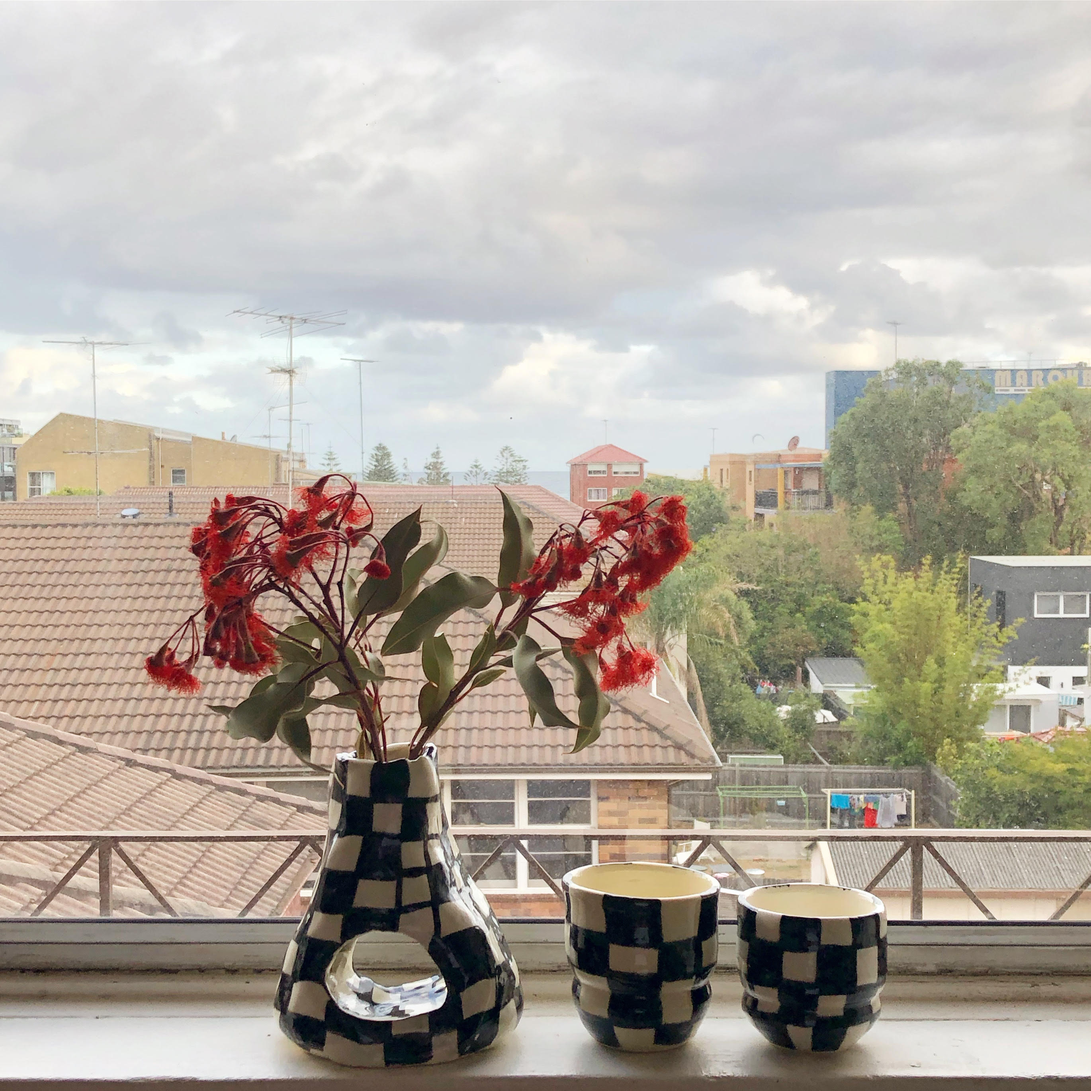
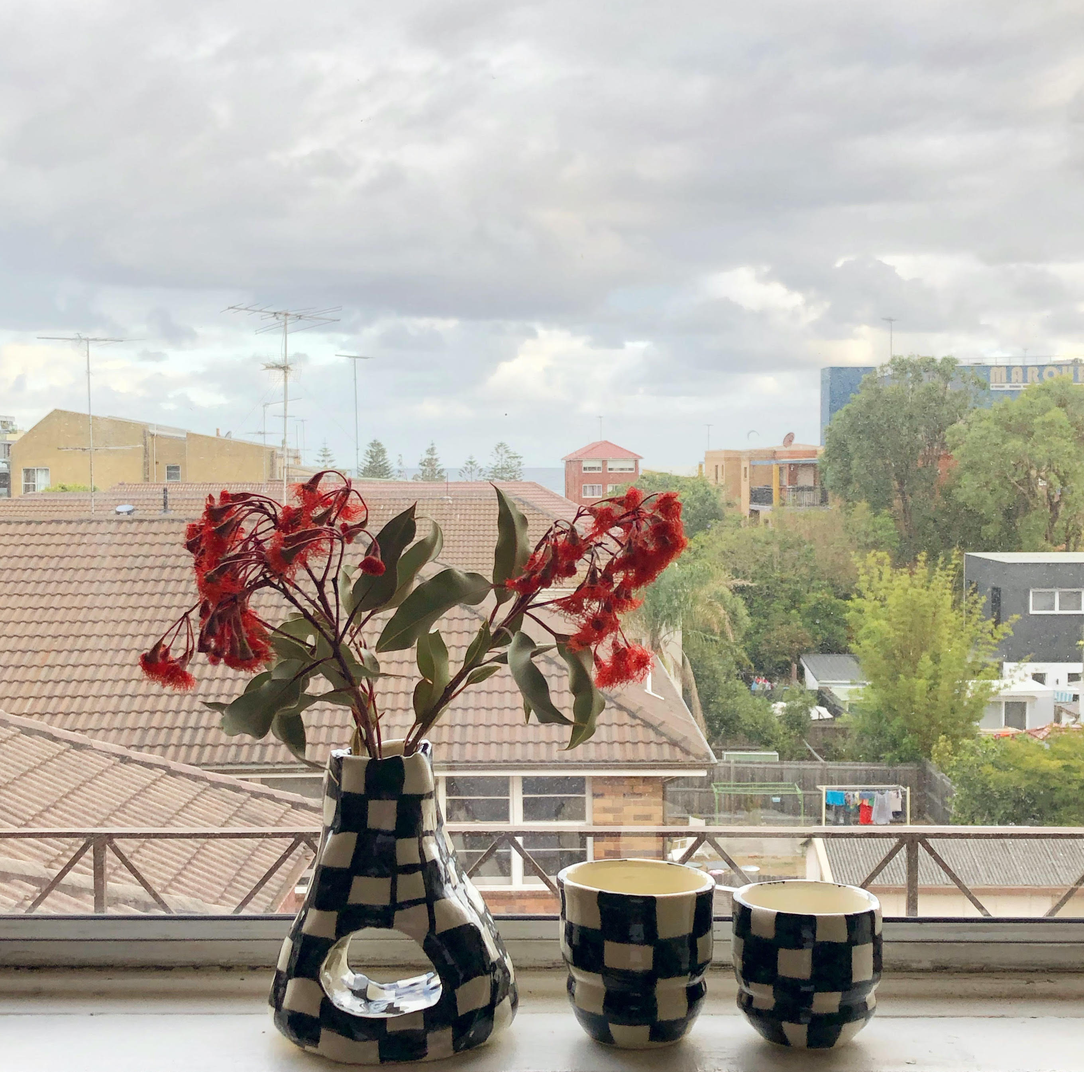
fixed the width of images

diff --git a/index.html b/index.html
@@ -77,7 +77,7 @@
             <img
               src="/images/pic.jpeg"
               alt="headshot"
-              class="img-fluid d-flex justify-content-center"
+              class="img-fluid d-flex justify-content-center shadow"
               id="profile-pic"
             />
           </div>
@@ -93,7 +93,7 @@
             <p>
               Laura has worked in media, public relations and creative, and is
               currently exploring new opportunities in tech as a front end
-              devloper or technical engineer.
+              developer or technical engineer.
               <br />
               <br />
               She is a creative problem solver and process driven. Laura is
@@ -130,7 +130,7 @@
             <img
               src="/images/pottery.jpeg"
               alt="pottery"
-              class="img-fluid p-4"
+              class="img-fluid shadow"
               id="profile-pic"
             />
           </div>
@@ -164,8 +164,9 @@
           <div class="d-flex justify-content-center">
             <img
               src="/images/weather-app.png"
-              class="img-fluid p-2 rounded shadow mb-5"
+              class="img-fluid rounded shadow mb-5"
               alt="weather app"
+              id="weather-pic"
             />
           </div>
         </div>

diff --git a/src/styles.css b/src/styles.css
@@ -28,7 +28,7 @@ a {
   text-decoration: none;
 }
 p {
-  font-size: 16px;
+  font-size: 14px;
   line-height: 30px;
 }
 footer {
@@ -186,7 +186,7 @@ footer a:hover {
   line-height: 1.5;
 }
 .content {
-  margin: 30px;
+  margin: 20px;
 }
 .content li,
 .content p {
@@ -205,6 +205,12 @@ footer a:hover {
 #profile-pic {
   display: block;
   max-height: 500px;
+  max-width: 500px;
+}
+
+#weather-pic {
+  display: block;
+  max-width: 500px;
 }
 
 .content li {
